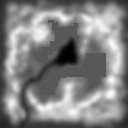
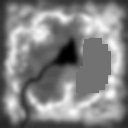
updated terrain and trees

diff --git a/project/objects/3d/MyTerrain.js b/project/objects/3d/MyTerrain.js
@@ -13,10 +13,10 @@ export class MyTerrain extends CGFobject {
         this.appearance.setTextureWrap('REPEAT', 'REPEAT');
 
         this.shader = new CGFshader(this.scene.gl, "shaders/texture3.vert", "shaders/texture3.frag");
-        //this.shader.setUniformsValues({ uSampler2: 1, uSampler3: 2, normScale: 2.5, textureColorWeigth: 0.3 });
+        this.shader.setUniformsValues({ uSampler2: 1, uSampler3: 2, normScale: 2.5, textureColorWeigth: 0.3 });
 
         // USE THIS SHADER TO DEBUG TREES ONLY
-        this.shader.setUniformsValues({ uSampler2: 1, uSampler3: 2, normScale: 0.0, textureColorWeigth: 0.3 });
+        //this.shader.setUniformsValues({ uSampler2: 1, uSampler3: 2, normScale: 0.0, textureColorWeigth: 0.3 });
 
         this.plane = new MyPlane(this.scene, 30);
     }

diff --git a/project/MyScene.js b/project/MyScene.js
@@ -54,8 +54,10 @@ export class MyScene extends CGFscene {
 
     this.treeSpacing = 20;
     this.rowPosX = 86;
+    this.rowPosY = -42.0;
     this.rowPosZ = -37;
     this.groupPosX = -76;
+    this.groupPosY = -42.0;
     this.groupPosZ = -46;
   }
   initLights() {
@@ -111,8 +113,8 @@ export class MyScene extends CGFscene {
     
     this.terrain.display();
 
-    this.treeGroupPatch.display(this.groupPosX, -87.5, this.groupPosZ, this.treeSpacing);
-    this.treeRowPatch.display(this.rowPosX, -87.5, this.rowPosZ, this.treeSpacing);
+    this.treeGroupPatch.display(this.groupPosX, this.groupPosY, this.groupPosZ, this.treeSpacing);
+    this.treeRowPatch.display(this.rowPosX, this.rowPosY, this.rowPosZ, this.treeSpacing);
 
     // ---- END Primitive drawing section
   }

diff --git a/project/MyInterface.js b/project/MyInterface.js
@@ -27,8 +27,10 @@ export class MyInterface extends CGFinterface {
 
         this.gui.add(this.scene, 'treeSpacing', 5, 30).name("Tree Spacing");
         this.gui.add(this.scene, 'rowPosX', -100, 100).name("TreeRow X");
+        this.gui.add(this.scene, 'rowPosY', -100, 100).name("TreeRow Y");
         this.gui.add(this.scene, 'rowPosZ', -100, 100).name("TreeRow Z");
         this.gui.add(this.scene, 'groupPosX', -100, 100).name("TreeGroup X");
+        this.gui.add(this.scene, 'groupPosY', -100, 100).name("TreeGroup Y");
         this.gui.add(this.scene, 'groupPosZ', -100, 100).name("TreeGroup Z");
 
 

diff --git a/project/README.md b/project/README.md
@@ -1,5 +1,9 @@
 # [COPY FROM PREVIOUS TP AND ADJUST]
 
+## 6 
 
-tree 2 source:
-https://br.pinterest.com/pin/489625790735154099/
+The [billboard 2](https://br.pinterest.com/pin/489625790735154099/).
+
+Aerial View of the trees:
+
+![Screenshot 3 - MyPlane (Water)](./screenshots/cg-t05g05-proj-5.png)
